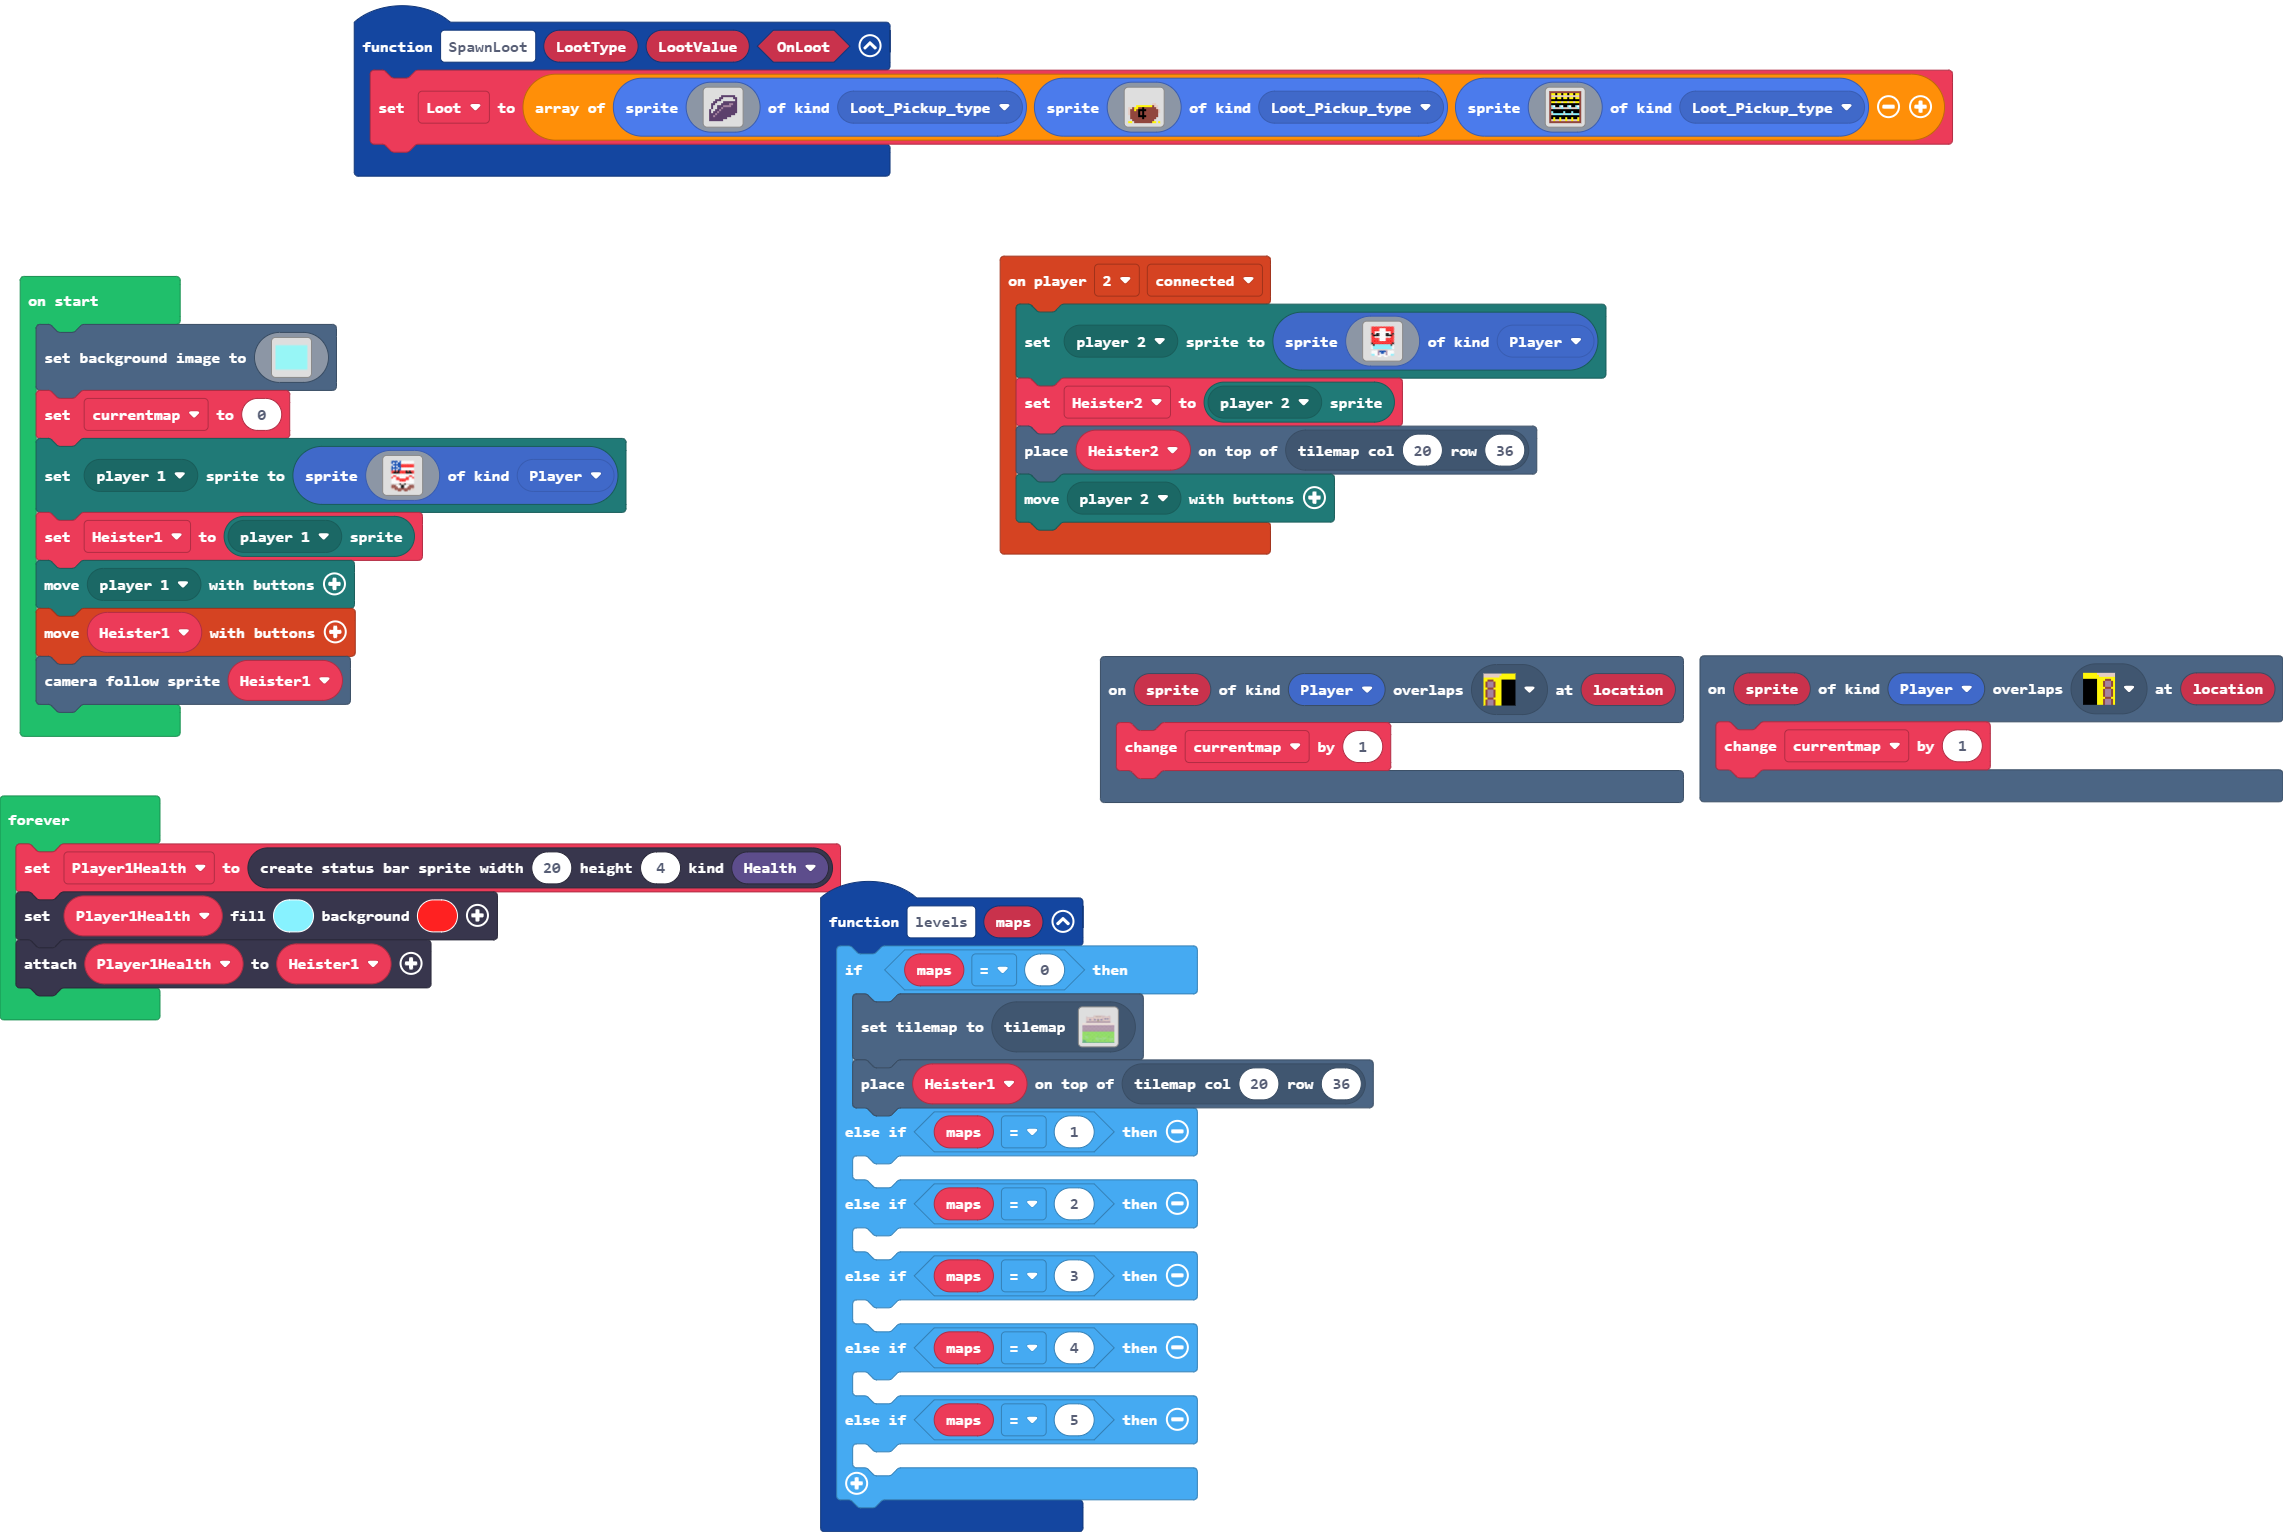
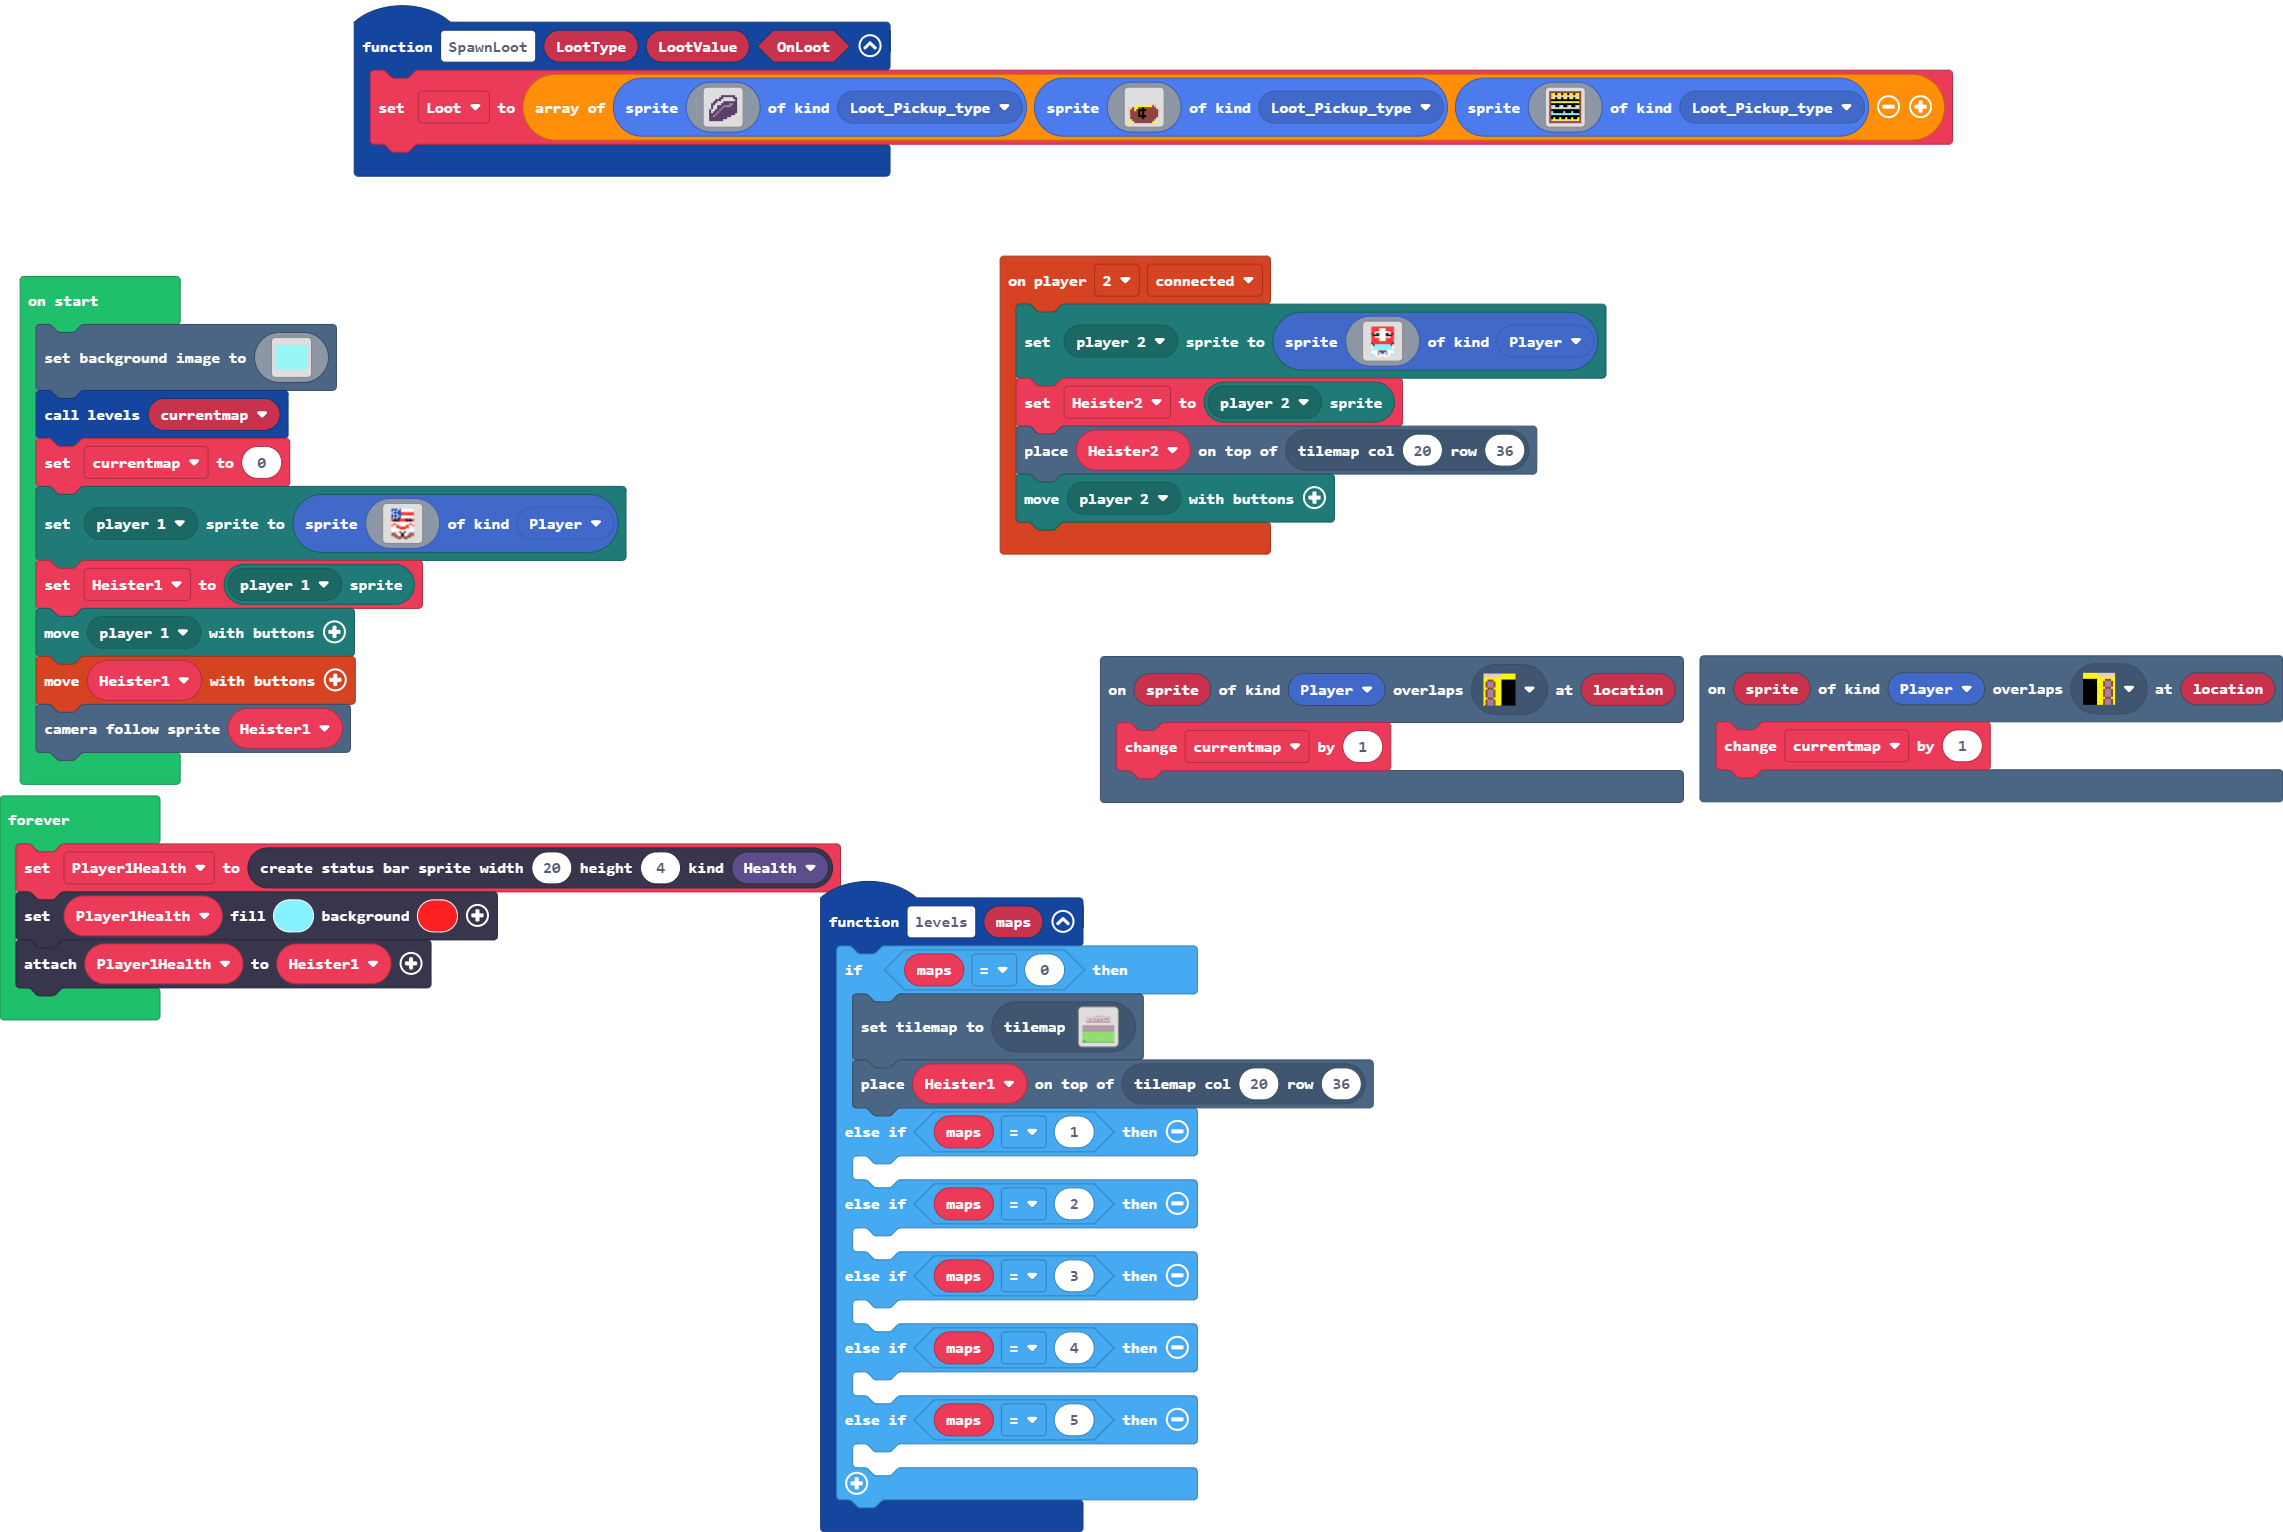
Update main.blocks, main.ts

Changed region(s): [[0.0, 0.2454, 0.2799, 0.5215]]

diff --git a/main.ts b/main.ts
@@ -36,8 +36,10 @@ let Player1Health: StatusBarSprite = null
 let Heister2: Sprite = null
 let Loot: Sprite[] = []
 let Heister1: Sprite = null
-scene.setBackgroundImage(assets.image`sky`)
 let currentmap = 0
+scene.setBackgroundImage(assets.image`sky`)
+levels(currentmap)
+currentmap = 0
 mp.setPlayerSprite(mp.playerSelector(mp.PlayerNumber.One), sprites.create(assets.image`Austin`, SpriteKind.Player))
 Heister1 = mp.getPlayerSprite(mp.playerSelector(mp.PlayerNumber.One))
 mp.moveWithButtons(mp.playerSelector(mp.PlayerNumber.One))
